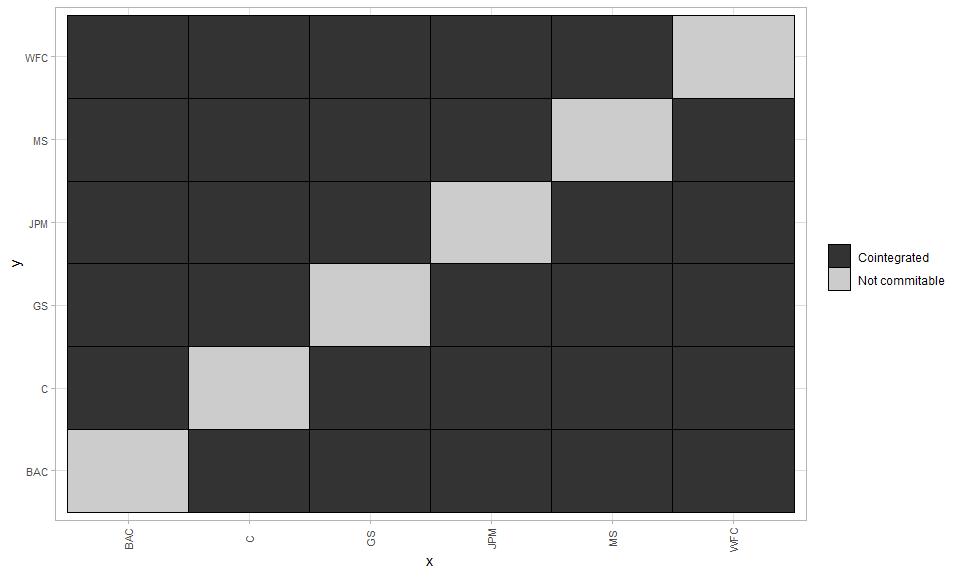
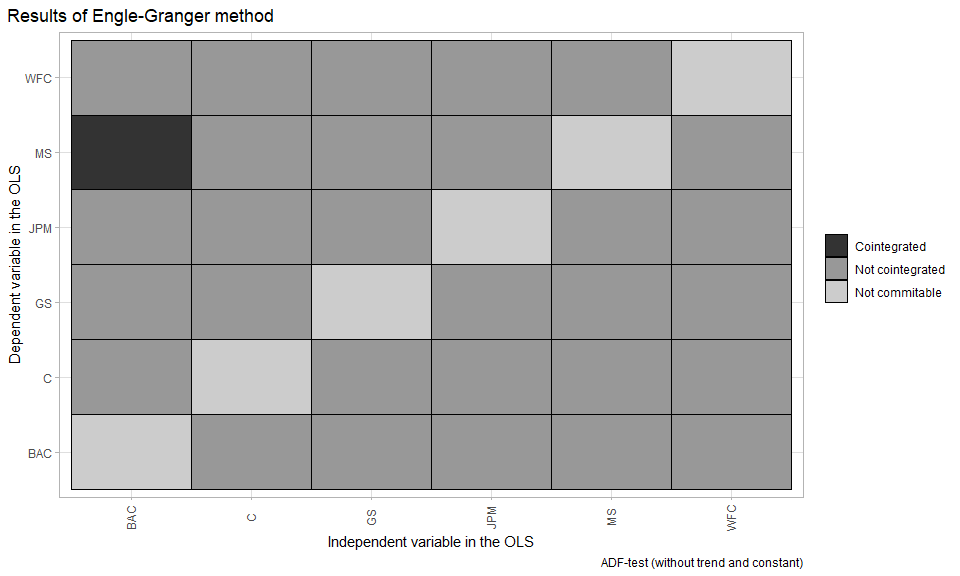
07-14b

diff --git a/Exercise-2.md b/Exercise-2.md
@@ -56,7 +56,7 @@ theme_set(theme_light() + theme(
 load("Exercise-2.RData") # datas from Bankdata.xlsx
 ```
 
-## Expoler the datas
+## Explorer the datas
 
 ``` r
 Bankdata %>% pivot_longer(-1) %>% 
@@ -72,7 +72,7 @@ Bankdata %>% pivot_longer(-1) %>%
 ``` r
 Bankdata %>% select(-1) %>% 
   apply(2, function(x) { # # of differences required for stationarity to each series
-    forecast::ndiffs(x, test = "adf", alpha = 0.01, type = "level")
+    forecast::ndiffs(x, test = "adf", alpha = 0.05, type = "level")
   })
 ```
 
@@ -94,9 +94,9 @@ Bankdata %>% select(-1) %>%
 ![](Exercise-2_files/figure-gfm/unnamed-chunk-5-1.png)<!-- -->
 
 ``` r
-cointegration_tests <- function(df, alpha) { # test cointegrity for all combination in a df
+cointegration_tests <- function(df, test, type, alpha) { # test cointegrity for all combination in a df
   ndiff_df <- df %>% select(-1) %>% apply(2, function(x) { # # of differences required for stationarity to each series
-    forecast::ndiffs(x, test = "adf", alpha = alpha, type = "level")
+    forecast::ndiffs(x, test = test, alpha = alpha, type = type)
   })
 
   v <- df %>% select(-1) %>% # remove year ---> IT MUST BE IN THE INPUT DF !
@@ -115,7 +115,7 @@ cointegration_tests <- function(df, alpha) { # test cointegrity for all combinat
     if (df2[i, 3] != 0) {
       if (lm(y ~ x, data = rename_all(data.frame(y = df[df2[i, 1]], x = df[df2[i, 2]]), funs(c("y", "x")))) %>%
         broom::augment() %>% .$.resid %>%
-        forecast::ndiffs(test = "kpss", alpha = alpha, type = "level") == df2[i, 3] - 1) {
+        forecast::ndiffs(test = test, alpha = alpha, type = type) == df2[i, 3] - 1) {
         v[i] <- 2 # 2 ---> series are cointegrated
       } else {
         v[i] <- 1 # 1 ---> not cointegrated, but test is commitable
@@ -133,7 +133,7 @@ cointegration_tests <- function(df, alpha) { # test cointegrity for all combinat
 ```
 
 ``` r
-cointegration_tests(Bankdata, 0.01) %>% 
+cointegration_tests(df = Bankdata, test= "adf", type = "level", 0.05) %>% 
   mutate(
     cointegration = case_when(
       cointegration == 0 ~ "Not commitable",
@@ -146,8 +146,12 @@ cointegration_tests(Bankdata, 0.01) %>%
   geom_tile(aes(x = x, y = y, fill = cointegration), color = "black") +
   scale_fill_grey() +
   theme(
-    axis.text.y = element_text(size = 8),
-    axis.text.x = element_text(angle = 90, vjust = 0.45, size = 8),
+    axis.text.x = element_text(angle = 90, vjust = 0.45),
+  ) + labs(
+    y = "Dependent variable in the OLS",
+    x = "Independent variable in the OLS",
+    title = "Results of Engle-Granger method",
+    caption = "ADF-test (without trend and constant)"
   )
 ```
 
